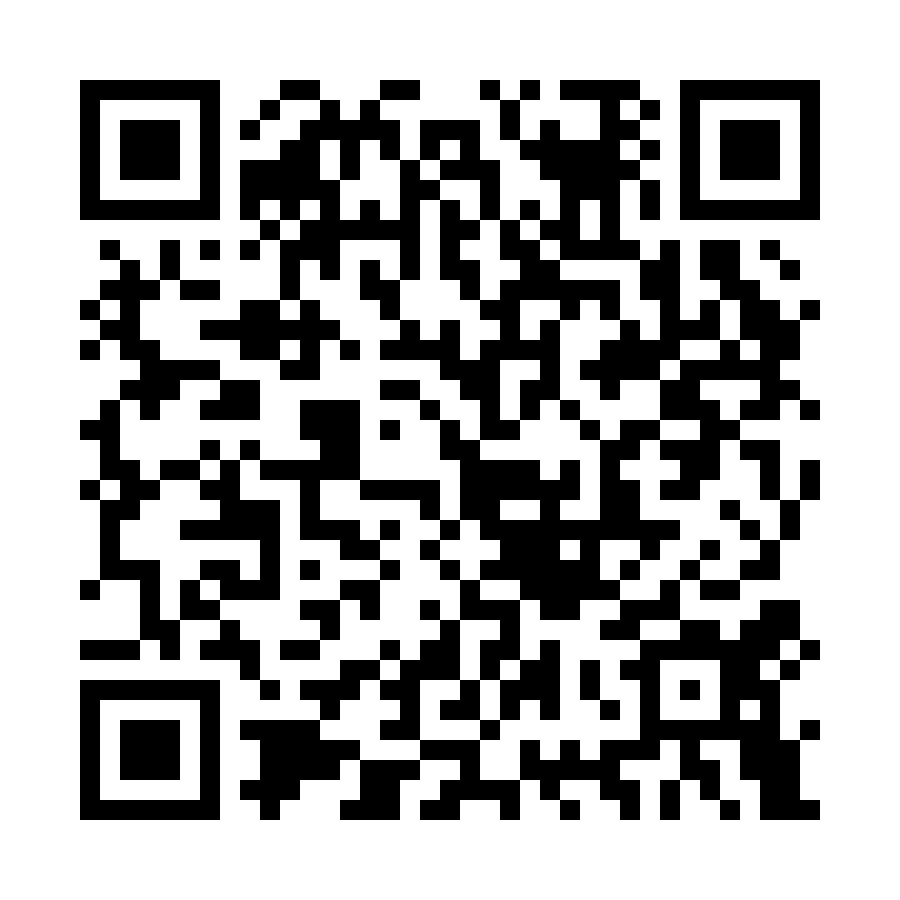
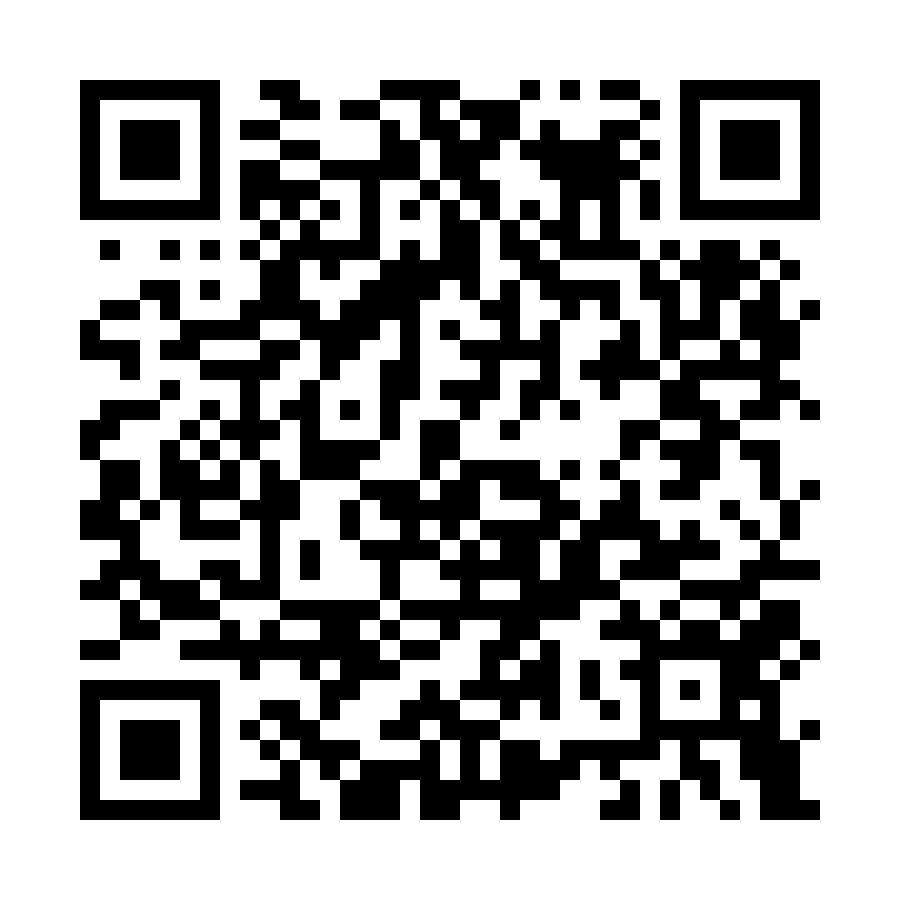
update

diff --git a/CHANGELOG.md b/CHANGELOG.md
@@ -150,6 +150,8 @@
 |[Oľšavica](https://raw.githubusercontent.com/Martinedo/ObApp_promoting/master/olsavica.md)|[1.9.0](https://play.google.com/store/apps/details?id=com.alphabetpartner.olsavica)|[1.9.0](https://apps.apple.com/sk/app/oľšavica/id6450856728)|com.alphabetpartner.olsavica|oľšavica/id6450856728|
 |[Podhradie](https://raw.githubusercontent.com/Martinedo/ObApp_promoting/master/podhradie.md)|[1.9.0](https://play.google.com/store/apps/details?id=com.alphabetpartner.podhradie)|[1.9.0](https://apps.apple.com/sk/app/podhradie/id6450718560)|com.alphabetpartner.podhradie|podhradie/id6450718560|
 |[Lenartov](https://raw.githubusercontent.com/Martinedo/ObApp_promoting/master/lenartov.md)|[](https://play.google.com/store/apps/details?id=com.alphabetpartner.lenartov)|[](https://apps.apple.com/sk/app/lenartov/id6451156866)|com.alphabetpartner.lenartov|lenartov/id6451156866|
+|[Horňany](https://raw.githubusercontent.com/Martinedo/ObApp_promoting/master/hornany.md)|[](https://play.google.com/store/apps/details?id=com.alphabetpartner.hornany)|[](https://apps.apple.com/sk/app/horňany/id6452840185)|com.alphabetpartner.hornany|horňany/id6452840185|
+|[Kanianka](https://raw.githubusercontent.com/Martinedo/ObApp_promoting/master/kanianka.md)|[](https://play.google.com/store/apps/details?id=com.alphabetpartner.kanianka)|[](https://apps.apple.com/sk/app/kanianka/id6453604929)|com.alphabetpartner.kanianka|kanianka/id6453604929|
 ._.
 
 ****
@@ -157,7 +159,7 @@
 ## 1.10.X - 2023-X (develop)
 
 ### Pridané
-- Priamy odkaz na Zásady ochrany osobných údajov
+- priamy odkaz na Zásady ochrany osobných údajov
 - [zliechov] pridaný odkaz na virtálny cintorín
 - [roznavskebystre] je možné prijímať aj ďalšie okruhy notifikácií
 - [lukov] pridané odkazy na informácie o Materskej a Základnej škole
@@ -171,10 +173,13 @@
 - [rozhanovce] zmena prepojenia na farské oznamy aby boli zobrazené všetky cirkvy
 - zrýchlenie aplikácie pri slabšom internetovom pripojení
 - upravené texty aplikácie
+- nie je potrebná aktualizácia aplikácie v prípade zapnutia rozhlasu zo strany obce
+- [unin] zmena FB prepojenia
 
 ### Opravy
-- opravené otváranie webového prehliadaču na novších Android verziách.
+- opravené otváranie webového prehliadaču na novších Android verziách
 - zobrazovanie zoznamu podnetov
+- oprava zobrazovania notifikácia na novších Android verziách
 - [radosovce] Oprava súradníc obecného úradu
 
 # Changelog
@@ -229,6 +234,7 @@
 - padanie aplikácie v prípade nekorektného obrázku na web stránke
 - oprava gramatických chýb v texte 👌
 - pri niektorých článkoch nebolo možné doscrolovať na koniec stranky
+- oprava zobrazovania notifikácií ak je aplikácia zapnutá na najnovších Android zariadeniach
 - [staravoda] oprevené prepojenie na obec v kocke
 
 ## 1.8.X - 2022-04

diff --git a/ruskov.md b/ruskov.md
@@ -5,7 +5,7 @@ Aplikácia je dostupná **bezplatne** na operačných systémoch **Android**, **
 
 | Android | iOS |
 |-----|--------|
-|<a href="https://play.google.com/store/apps/details?id=com.alphabetpartner.ruskov"><img src="https://play.google.com/intl/en_us/badges/static/images/badges/sk_badge_web_generic.png" alt="Android" width="350"/></a>|<a href="https://apps.apple.com/sk/app/ruskovce/id1539214614"><img src="https://raw.githubusercontent.com/Martinedo/ObApp_promoting/master/resources/download_on_app_store_sk.png" alt="iOS" width="300"/></a>|
+|<a href="https://play.google.com/store/apps/details?id=com.alphabetpartner.ruskov"><img src="https://play.google.com/intl/en_us/badges/static/images/badges/sk_badge_web_generic.png" alt="Android" width="350"/></a>|<a href="https://apps.apple.com/sk/app/ruskov/id6450855567"><img src="https://raw.githubusercontent.com/Martinedo/ObApp_promoting/master/resources/download_on_app_store_sk.png" alt="iOS" width="300"/></a>|
 |<img src="https://raw.githubusercontent.com/Martinedo/ObApp_promoting/master/resources/QR_images/ruskov_android.png" alt="qr_android" width="300"/>|<img src="https://raw.githubusercontent.com/Martinedo/ObApp_promoting/master/resources/QR_images/ruskov_ios.png" alt="qr_iOS" width="300"/>|
 | Minimum - Android 5.0 Lollipop| Min - iOS 12.4 alebo novší |
 

diff --git a/BUILDLOG.md b/BUILDLOG.md
@@ -150,4 +150,6 @@
 |Oľšavica|[![Build status](https://build.appcenter.ms/v0.1/apps/4780e75d-1290-4898-8b17-5c38b78cce23/branches/master/badge)](https://appcenter.ms)|[![Build status](https://build.appcenter.ms/v0.1/apps/1e88f95a-b6a5-4679-a445-1c12477c88c4/branches/master/badge)](https://appcenter.ms)|||
 |Podhradie|[![Build status](https://build.appcenter.ms/v0.1/apps/3913a3ac-ffbc-43da-8813-52bd51183727/branches/master/badge)](https://appcenter.ms)|[![Build status](https://build.appcenter.ms/v0.1/apps/dc7079fc-d56e-4fbf-8cd5-386102935ccb/branches/master/badge)](https://appcenter.ms)|||
 |Lenartov|[![Build status](https://build.appcenter.ms/v0.1/apps/475df60f-e0bf-4128-af33-a8f0403bbe7e/branches/master/badge)](https://appcenter.ms)||||
+|Horňany|[![Build status](https://build.appcenter.ms/v0.1/apps/fd589b3c-21ef-46ec-9415-23ff97506b99/branches/master/badge)](https://appcenter.ms)||||
+|Kanianka|[![Build status](https://build.appcenter.ms/v0.1/apps/620b13d9-a4ca-4553-8e37-a144997f2359/branches/master/badge)](https://appcenter.ms)||||
 ._.
